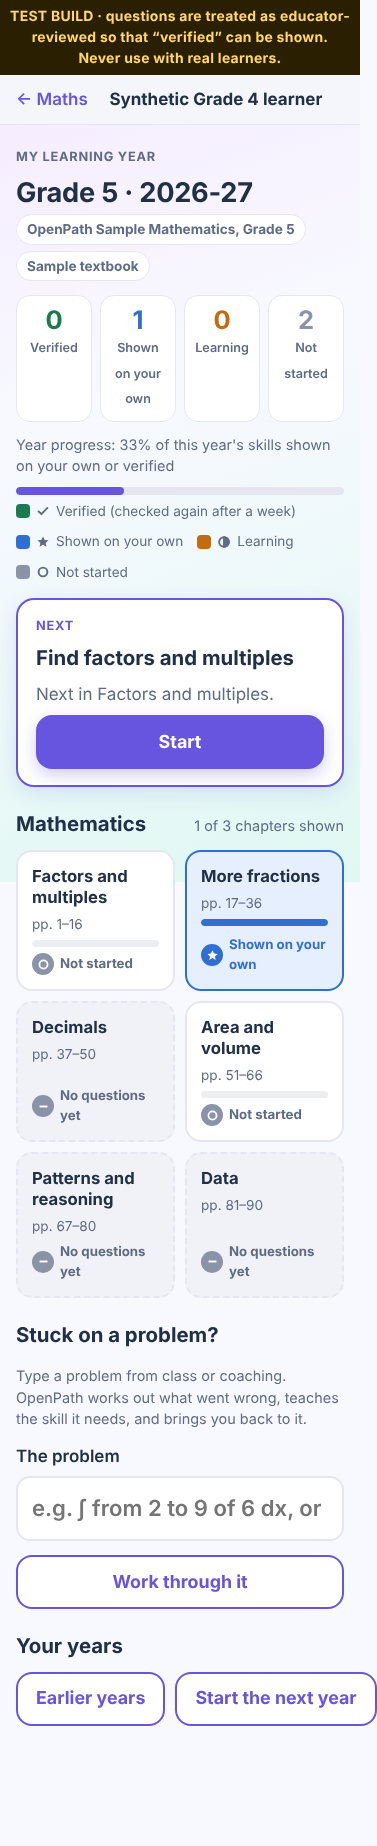
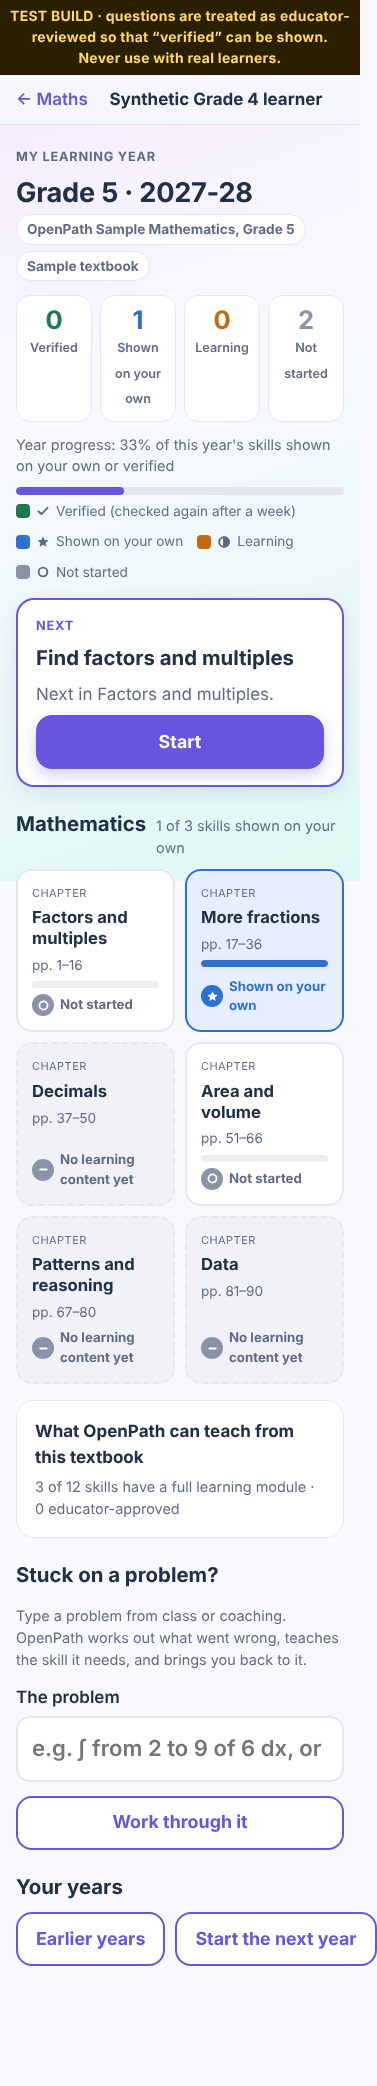
Browser journeys for the platform (Board B Class 10, Grade 12 calculus, an unseen book, a Science book declined, the next year); platform report and screenshots; CI checks that generated content is current
Claude-Session: https://claude.ai/code/session_01SetMKcJSEoaDyVFjtUwsDG

Changed region(s): [[0.0, 0.0, 1.0, 0.9572], [0.9045, 0.2779, 0.9337, 0.3397]]

diff --git a/docs/learning-year/PLATFORM_REPORT.md b/docs/learning-year/PLATFORM_REPORT.md
@@ -1,0 +1,172 @@
+# My Learning Year: grade-independent platform (development directive)
+
+**Branch and PR:**
+- branch: `feat/my-learning-year-platform`
+- stacked on: `feat/my-learning-year-corrective` (PR #62) → #61 → #60
+
+**Constraints held:**
+- nothing merged and nothing deployed;
+- no paid call and no language model;
+- no real learner record touched; only synthetic pupils, in a scratch database and in CI;
+- no evidence policy weakened;
+- no competency id changed and no existing curriculum release rewritten;
+- nothing approved for educators.
+
+The one rule change is the seven-full-day verification, which the owner approved. It is now verification@3 in the shared engine, and verification@2 can still be replayed for historical records.
+
+> **Platform vs content.** The platform is general: any supported textbook → tiles at any depth → modules → recovery → evidence → plans and goals. The **content is not complete**:
+> - 17 of 200 competencies have a complete learning module;
+> - no module is educator-approved;
+> - so no skill can honestly be verified on real use.
+>
+> See `COVERAGE.md`. The curriculum is **not** declared complete.
+
+## 1. Directive → what was built
+
+| Directive | Built (files) | Status |
+|---|---|---|
+| Generic curriculum synthesis | See note 1 below. Sources: `extract.ts`, `curriculum.ts`, `meaning.ts`, `content/learning/competency-concepts.v1.json`. | implemented, tested, browser |
+| Hierarchical tiles, any depth | See note 2 below. Source: `tiles.ts`. | implemented, tested, browser |
+| Module for every assessable capability | Explore → Strategy → Chapter → Practise → Verify, unchanged (`intervention.ts`). The module also asks unused strategy checks alone, so the shared engine gets the direct evidence it needs. Each answer's activity comes from the list the question is in. | implemented, tested, browser |
+| Same recovery for every grade | `recovery()` with diagnostic@2 over 17 problem families. Tested at Grade 4 (7 × 8 inside an equivalent fraction), Grade 10 (expanding brackets inside quadratics) and Grade 12 (powers inside a substitution integral; changing the limits). | tested, browser (Grades 10 and 12) |
+| Distinct systems | See note 3 below. | implemented |
+| Seven-full-day rule | verification@3 in `english-core/src/retention.ts`: the delay is exactly 7 days, with no tolerance. verification@2 can be replayed with `opts.definition`. On this surface the delayed check is due 7 days after the later of: the skill shown on this surface, and the engine's first demonstration. The server refuses a check before 7 full days. | implemented, tested (engine, Django, browser) |
+| Exam goals | goals@2, unchanged. Grade 5 gets foundations from its own year only. Decomposition is by grade: a Grade 8 learner gets the power steps of a substitution integral, and a Grade 12 learner gets the full problem. There is one evidence record (`platform.test.ts` D). | tested, browser (B, N) |
+| Content production and review | See note 4 below. | implemented, tested |
+| Coverage, reported separately | coverage@1 (`coverage.ts`, `scripts/coverage.ts` → `COVERAGE.md`). See note 5 below. | implemented, tested, browser |
+| Unsupported things explicit | Subjects other than mathematics are extracted, then marked "not supported yet". Nothing in them is mapped, and the server refuses mapping them. Scans, other file formats and question types are listed in `UNSUPPORTED`. | implemented, tested, browser |
+
+**Notes to the table**
+
+1. **Generic curriculum synthesis**
+   - extract@1 now reads units, parts or strands above chapters, and numbered sections of any depth, in both structured and plain text.
+   - meaning@3 adds secondary-school concepts, plus competency concept annotations kept as data.
+   - Unsupported subjects are stated as such.
+   - The release script never rewrites an existing release. A reviewer's decisions on uncertain mappings are recorded per book (`<book>.review.json`).
+   - New sample books: Grade 12 (calculus, with units and nested sections) and Board B Class 10 (units and sections).
+2. **Hierarchical tiles, any depth**
+   - The hierarchy is subject → unit → chapter → section … → skill → micro-skills.
+   - aggregate@2 rolls a parent up from its distinct constituent competencies, so progress (the fill) and mastery (the colour) stay separate.
+   - Each tile shows its content level: a full module, incomplete (with what is missing), or "No learning content yet". A tile with no content is not assessable and never counted.
+   - Each tile shows its educator-review state.
+   - Alternative ways and enrichment links are shown.
+3. **Distinct systems**, each with its own interface:
+   - graph (`graph.ts`: mandatory, plausible, support, disputed, trivial, part, plus the new **alternative** and **enrichment** relations, which recovery never follows);
+   - curriculum (`curriculum.ts`);
+   - evidence (`evidence.ts`, the shared ledger);
+   - planner (`plan.ts`, `intervention.ts`).
+4. **Content production and review**
+   - library@1 synthesises a module from a blueprint: the teaching text a person wrote, plus a problem family. Synthesis adds questions in two formats; multiple-choice options are mal-rule answers. Every generated answer passes the family's independent check.
+   - validate@1 checks module structure.
+   - review@1 is the registry: draft → submitted → approved (by an educator who is not the author) → released. A content change makes the module a draft again.
+   - Only a released, unchanged module counts as validated in the content gate.
+   - Scripts: `library.ts`, `review.ts`, `coverage.ts`.
+5. **Coverage categories**, each reported on its own:
+   - extracted requirements and mappings;
+   - diagnostic questions, teaching strategies, practice and independent assessment;
+   - retention checks;
+   - educator-approved content.
+   - Coverage is reported per release and for the whole graph. Each dashboard has a coverage card.
+
+## 2. New content (all original, CC0, written with AI assistance, not educator-reviewed)
+
+**Seven problem families**, each answer checked independently:
+
+| Family | Problem | Independent check |
+|---|---|---|
+| pow | aⁿ | `BigInt` |
+| dist | a(x + b) | evaluation at two points by repeated addition |
+| expand | (x + a)(x + b) | substitution |
+| dpow | f′(t) for k xⁿ | central difference |
+| pint | ∫ k xⁿ | Simpson's rule |
+| subst | ∫ 2x(x² + c)ⁿ | Simpson's rule |
+| disc | number of real roots | the vertex value |
+
+- Each family has a multiple-choice form, `gen:…:mc`.
+- The server mirrors the families, and a parity fixture covers 1114 ids.
+
+**Seven synthesised modules:**
+- powers;
+- a(x + b);
+- (x + a)(x + b);
+- the power rule for derivatives;
+- antiderivatives of powers;
+- substitution;
+- the discriminant.
+
+**Eight existing small modules completed** with a second practice question and a transfer question (new ids only). All 17 modules validate and are *submitted* (awaiting an educator).
+
+**Graph additions 1.1.0:**
+- 7 micro-skills. "Integrate by parts" deliberately has no content.
+- Supports for the new modules.
+- 2 alternative relations and 2 enrichment relations.
+
+**Relation audit 1.1.0:**
+- 6 more edges are classified, for example "exponents ← profit and loss" is disputed.
+- The mandatory graph is unchanged.
+
+## 3. Scenarios A–F
+
+Each scenario is tested at engine level in `frontend/src/learning/platform.test.ts`. The browser tests run against Django `runserver` in `frontend/e2e/learning-year.test.mjs`.
+
+| Scenario | Engine | Browser |
+|---|---|---|
+| A: Grade 4 textbook → dashboard → fractions → assessment, learning, verification after seven full days | ✓ | ✓ (journeys A, E, F, J, K) |
+| B: Board B Class 10 → Algebra → Quadratic equations → sections. A gap in expanding brackets is investigated, taught and repaired, then the learner goes back to the problem and continues with quadratics | ✓ | ✓ (platform B) |
+| C: Grade 12 → Calculus → Integrals → Techniques of integration → capabilities ("by parts": no content, said so). Powers-as-multiplication leads to the Grade 7 powers module, then solved after help. A limits slip → integration is taught. The same mechanism works at Grade 4 | ✓ | ✓ (platform C, journeys C and G) |
+| D: JEE: Grade 5 foundations only from its own year. Grade 8 fragments versus the full problem at Grade 12. An exam plan from one evidence record | ✓ | ✓ (journeys B, D, N) |
+| E: an unseen plain-text Board C book: parts, sections and a non-mathematics outcome kept as a proposal. A Science book is declined. The book's module goes through the same review, and once released (in a test registry) it can verify | ✓ | ✓ (platform E) |
+| F: Grade 9 or 10 → Grade 12, 2027-28: every record kept, the overdue delayed check comes first, and the new book's plan and tiles | ✓ | ✓ (platform E/F, journey E) |
+
+**Tests run on this branch (local):**
+- frontend unit tests: **392/392**;
+- Django: **186/186**;
+- browser: **12/12 journeys** against Django `runserver` (phone and tablet);
+- diagnostic@2 synthetic check across 16 families: 155 cases → 135 identified, 20 uncertain, **0 wrong claims**. Random answers gave 0 claims.
+
+## 4. Findings and blockers
+
+| Item | Class | What it means |
+|---|---|---|
+| No module is educator-approved | Evidence (needs people) | Green is only reachable in the test build or in a test registry. The registry and scripts are ready. An educator must review and approve, and a release manager must release. |
+| After two early mistakes, the shared engine's estimate may need more direct answers than a module holds (11–15 questions) | Content and product decision | See note 1 below. |
+| Content breadth: 17/200 competencies | Content | Adding a module needs a blueprint (text) and usually a problem family. Most Grade 1–3, 9 and 11 skills have none. Geometry constructions, proofs and probability have no families. |
+| meaning@3 interpretation parameters and annotations | Evidence | Design values, written by AI with no educator involved. Uncertain mappings still go to a reviewer. |
+| Exam patterns, OCR, AI extraction, the tile design, the relation audit | Unchanged from PR #62 | Owner decisions or external dependencies; see `CORRECTIVE_REPORT.md`. |
+| The CI job "Mathematics prerequisite safety" on Node 24 | Known, by design | Unchanged. |
+
+1. **Engine evidence after early mistakes.**
+   - The module then says honestly: "your shared record needs more answers on your own before a delayed check can verify it".
+   - The real fix is larger question pools. Synthesised modules could draw further family variants, but that needs a decision: whether a release covers a family's variants or only the listed questions.
+
+## 5. How to reproduce
+
+```
+# content pipeline
+node --import tsx packages/learning/scripts/library.ts        # blueprints → library.v1.json (validated)
+node --import tsx packages/learning/scripts/review.ts status   # the review registry
+node --import tsx packages/learning/scripts/releases.ts       # textbooks → releases (existing ones kept)
+node --import tsx packages/learning/scripts/coverage.ts       # → docs/learning-year/COVERAGE.md
+node --import tsx packages/learning/scripts/families-parity.ts
+# tests
+cd frontend && npm test && cd ../backend && python manage.py test
+# browser (as CI): see .github/workflows/learning-year.yml
+```
+
+**Screenshots:** `screens/p-*.png`.
+
+| Screenshot | State |
+|---|---|
+| `p-b0` | board choice |
+| `p-b1` | units dashboard |
+| `p-b2` | chapter sections |
+| `p-b3` | section skills |
+| `p-b4` | gap repaired |
+| `p-c1` | capabilities, including "no learning content" |
+| `p-c2` | coverage card |
+| `p-c3` | solved after powers |
+| `p-e0` | unsupported subject |
+| `p-e1` | review of the unseen book |
+| `p-e2` | skill at depth |
+| `p-e3` | unit progress over its constituents |
+| `p-f1` | next year: the delayed check first |
